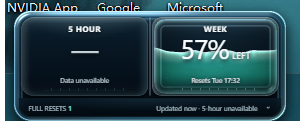
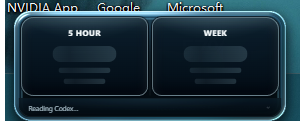
docs: record Codex Meter verification

diff --git a/docs/verification/VERIFICATION.md b/docs/verification/VERIFICATION.md
@@ -2,6 +2,13 @@
 
 **Status:** Acceptance pending
 
+V10 changes the user-facing product name to **Codex Meter** and replaces the
+application/tray icon with the user-approved sevenfold interlace. Seven
+cyan-to-mint telemetry ribbons pass over and under one another around an
+abstract observation aperture; the two central quota points are signal red.
+The mark contains no literal monitor and does not use a sixfold knot or central
+hexagonal negative space.
+
 V9 keeps the approved V8 half-scale liquid implementation and adds quiet
 Windows notification-area lifecycle behavior. Compact, expanded and
 collapsed windows are now 300x130, 300x160 and 260x48 logical pixels. The
@@ -20,28 +27,34 @@ The overlay is excluded from the normal taskbar, registers a notification-area
 icon with show/hide/exit actions, and converts window close into hide-to-tray.
 Only an explicit tray exit is allowed to terminate the event loop.
 
-**Source:** local commit `a4e59f1` (`fix: run quietly from the system tray`).
+**Source:** local commits `5a705bf` (`feat: rebrand app as Codex Meter`) and
+`e8efcaf` (`fix: make portable packaging reproducible`).
 
 **Target environment:** Windows 11 x64, Tauri 2.11.5, Rust 1.97.1,
 Node.js 24.18.0, official `@openai/codex` 0.147.0 runtime, and bundled
 Microsoft Edge WebView2 Fixed Runtime 151.0.4129.78.
 
-**Artifact:** `release/CodexCapacity-0.1.0-win-x64/` (locally generated and
-ignored by Git), 257 files / 998,099,198 bytes. `Codex Capacity.exe` SHA-256:
[1 lines of base64/hex data omitted]
+**Artifact:** `release/CodexMeter-0.1.0-win-x64/` (locally generated and
+ignored by Git), 261 files / 998,159,343 bytes. `Codex Meter.exe` SHA-256:
[1 lines of base64/hex data omitted]
+The manifest identifies source commit `e8efcaf` and covers every packaged file,
+including WebView2 component manifests.
 
 ## Current checks
 
 | Journey or boundary | Command / action | Actual result |
 | --- | --- | --- |
+| Approved brand geometry | Render the committed SVG and generate all Tauri icon targets with `npx tauri icon` | Passed: application PNG, Windows ICO, ICNS and Appx sizes use the approved sevenfold cyan/mint interlace with two red center points. |
+| Executable identity | Inspect `Codex Meter.exe` version resources and extract its associated icon | Passed: `ProductName` and `FileDescription` both equal `Codex Meter`; the extracted icon matches the approved mark. |
+| Packaged brand smoke test | `scripts/verify-portable-brand.ps1` against the final portable directory | Passed: the real window title is `Codex Meter`, compact size is 300x130, zero matching taskbar buttons exist, and close hides the overlay while the process remains alive. |
 | React state and interaction | `npm.cmd test -- --run` | Passed: 19 tests across 4 files, including exact half-scale layout sizes, linear quota-to-volume mapping, surface-volume conservation, independent chambers, body-momentum decay, state rendering and pointer drag behavior. |
 | Type and production frontend | `npm.cmd run typecheck`; production build inside `npm.cmd run tauri:build` | Passed; Vite emitted the production assets. |
 | Rust integration | `cargo clippy --all-targets -- -D warnings`; `cargo test` | Passed; Clippy is clean and all 14 Rust tests passed, including the no-taskbar configuration contract. The localized MSVC import-library linker notice is informational. |
 | Impeccable mechanical scan | `node .agents/skills/impeccable/scripts/detect.mjs --json ...` | Passed with zero findings. |
 | Five visual states | Deterministic Chromium/WebGL2 fixtures at the physical target sizes | Passed: healthy, loading, failed, expanded and collapsed screenshots use 300x130, 300x160 or 260x48 crops. No liquid grid or mid-volume hard lines remain. |
-| Release build | `npm.cmd run tauri:build`; `scripts/package-portable.ps1` | Passed; the manifest records source commit `a4e59f1`, the pinned Codex runtime and WebView2 Fixed Runtime. |
+| Release build | `npm.cmd run tauri:build`; `scripts/package-portable.ps1` | Passed; the reproducible manifest records source commit `e8efcaf`, the pinned Codex runtime and WebView2 Fixed Runtime. |
 | Quiet child processes | Monitor every visible top-level window belonging to the packaged app and its descendants for 65 seconds | Passed across initial load and the 60-second automatic refresh: zero `ConsoleWindowClass` windows were created. |
-| Taskbar exclusion | Inspect the live Windows 11 taskbar UI Automation tree while the packaged app is running | Passed: zero `Taskbar.TaskListButtonAutomationPeer` elements matched `Codex Capacity`. |
+| Taskbar exclusion | Inspect the live Windows 11 taskbar UI Automation tree while the packaged app is running | Passed: zero taskbar buttons matched `Codex Meter`. |
 | Close-to-tray lifecycle | Send a real `WM_CLOSE` to the packaged Tauri window and inspect visibility/process state | Passed: the 300x130 window changed from visible to hidden while the process remained alive. The tray is built with an explicit 32x32 PNG, left-click toggle, and show/hide/exit menu; setup failure would terminate startup. |
 | WebView2-independent portable launch | Start the packaged executable with isolated AppData and inspect processes created after launch | Passed; the app created a 300x130 real window and 7 WebView2 processes from the bundled runtime, so the machine-wide WebView2 installation is not required. |
 | Real Tauri drag inertia | Drag the packaged window 81x45 px, then compare `GetWindowRect` after release | Passed: the window was displaced 94x52 by 25 ms, coasted another 61x34 by 220 ms, then another 16x9 by 900 ms. |
@@ -50,6 +63,9 @@ ignored by Git), 257 files / 998,099,198 bytes. `Codex Capacity.exe` SHA-256:
 
 ## Evidence
 
+- [Approved Codex Meter icon board](../../.impeccable/mocks/branding-v4/codex-meter-interlace-approval.png)
+- [Icon extracted from the packaged EXE](screenshots/codex-meter-exe-icon.png)
+- [Real packaged Codex Meter window](screenshots/codex-meter-real-window.png)
 - [V8 real Tauri pre-drag frame](screenshots/v8-half-tauri-before.png)
 - [V8 real Tauri release frame at 25 ms](screenshots/v8-half-tauri-motion-25ms.png)
 - [V8 real Tauri release frame at 220 ms](screenshots/v8-half-tauri-motion-220ms.png)
